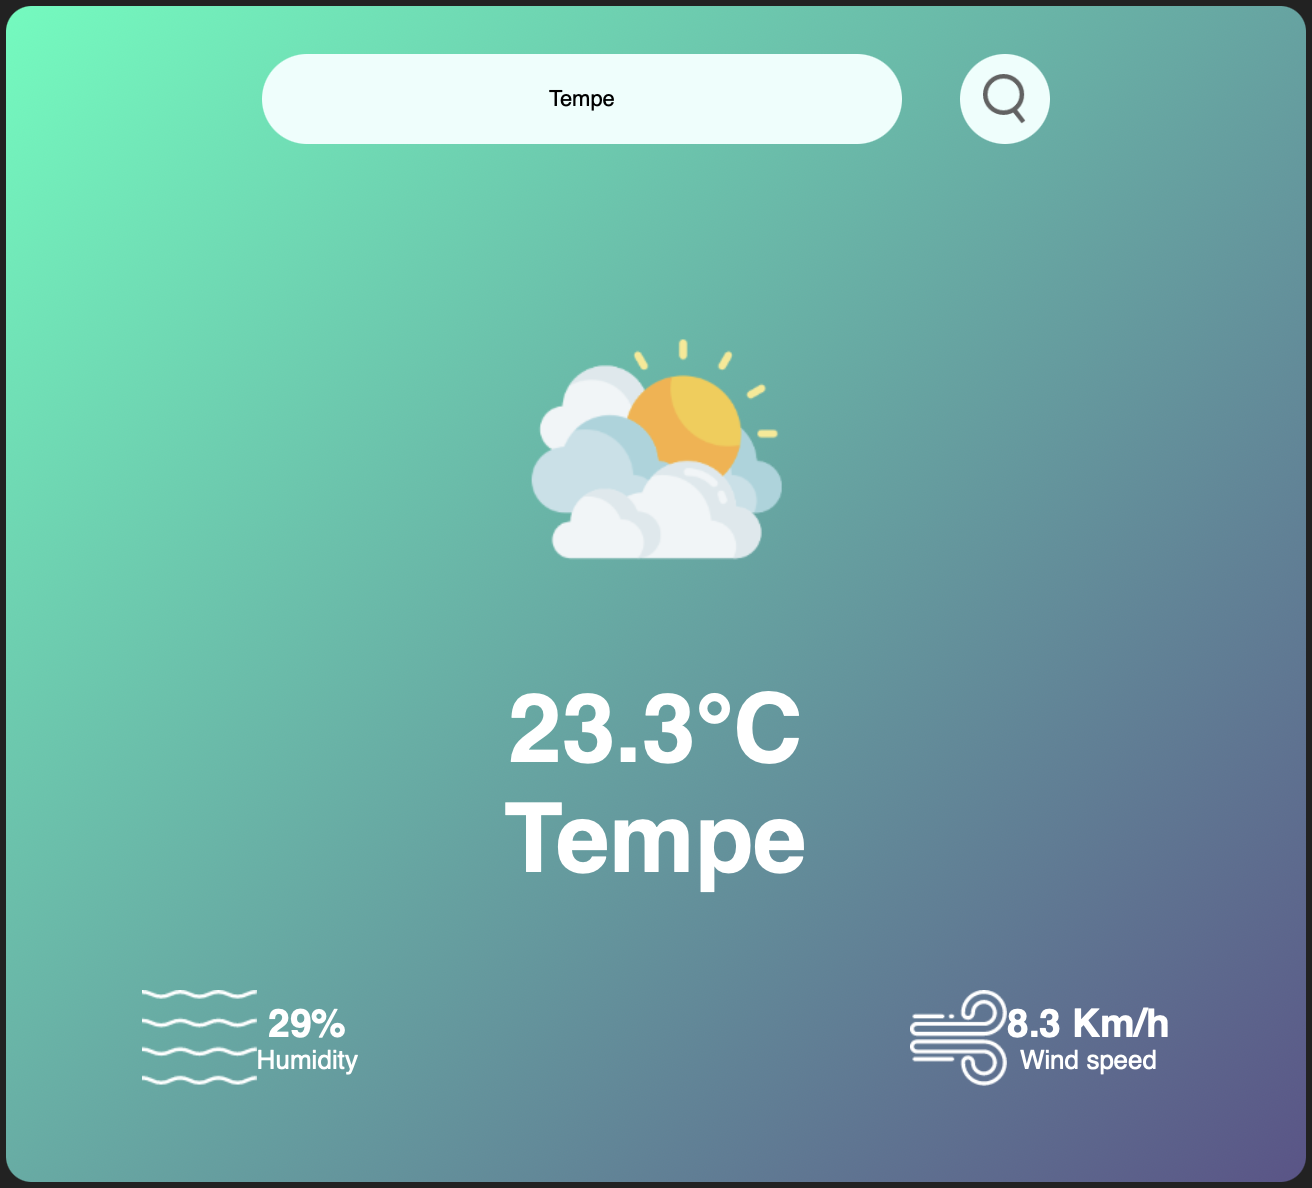
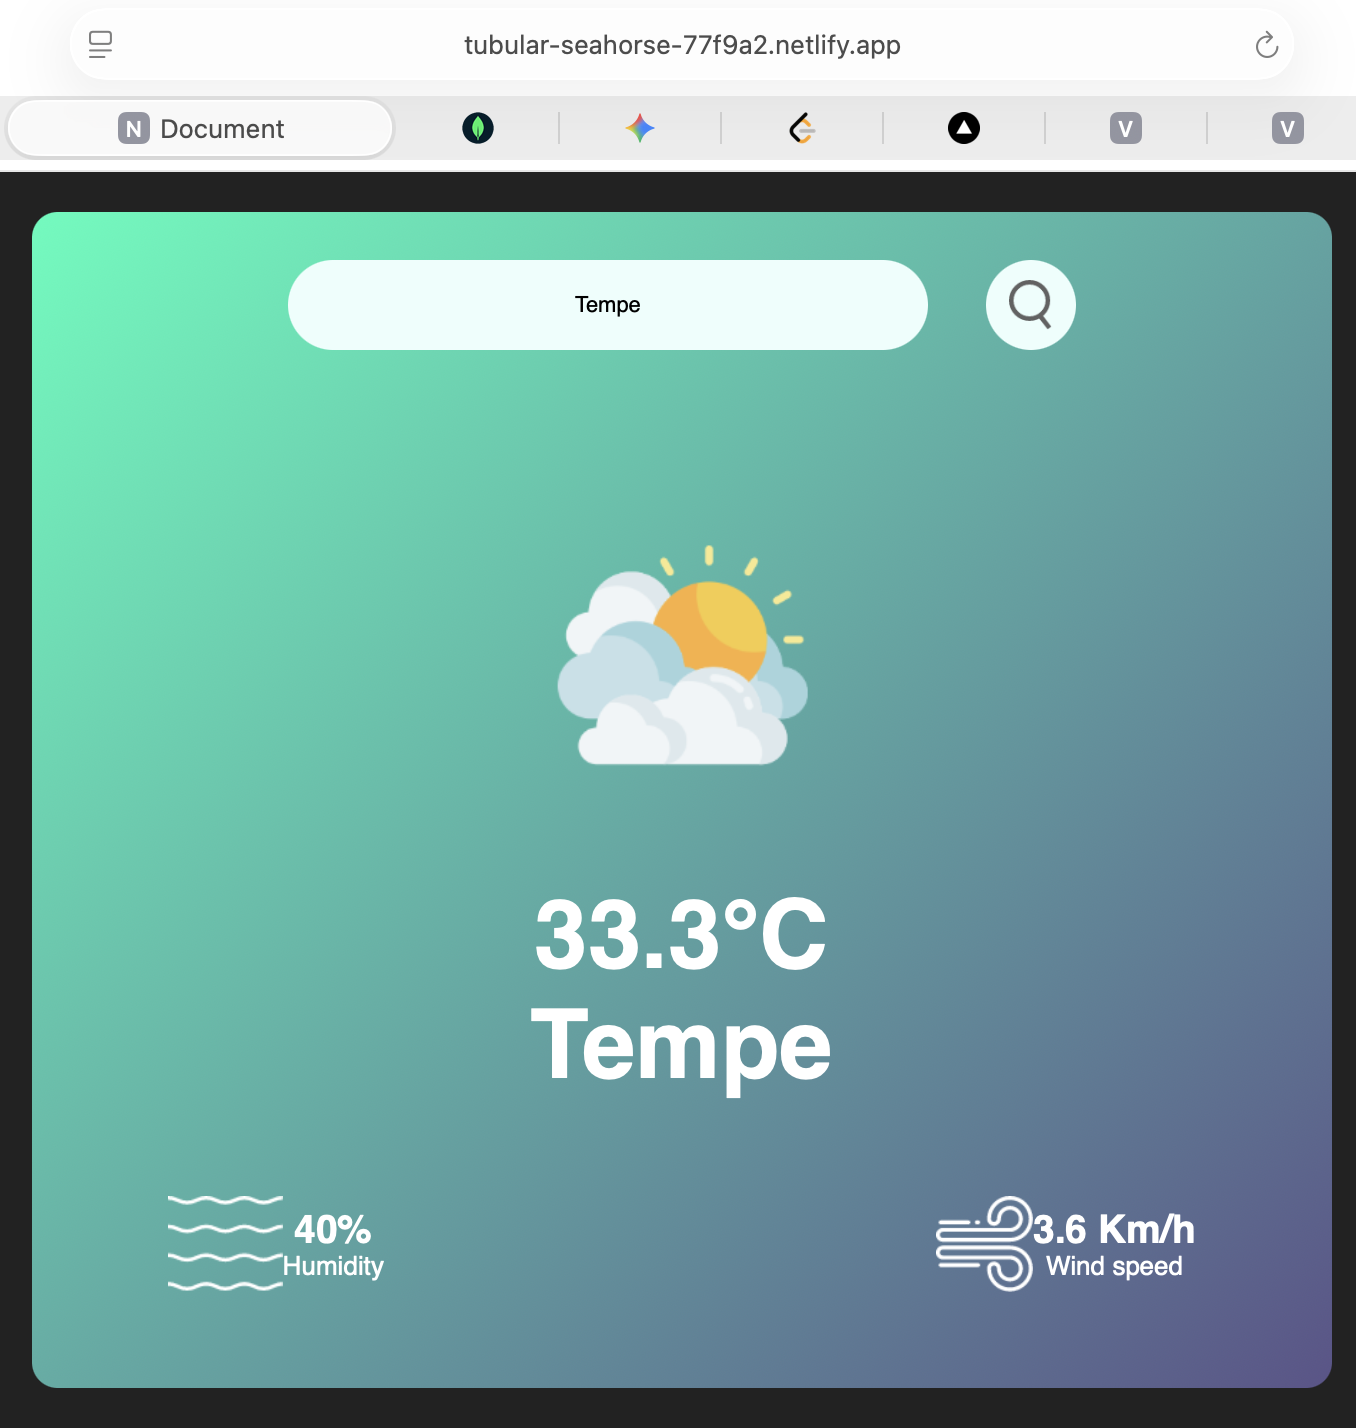
Updated new project links

diff --git a/index.html b/index.html
@@ -39,23 +39,4 @@
     ></script>
     <script type="module" src="/src/main.jsx"></script>
   </body>
-  <script>
-    useEffect(() => {
-      const forms = document.querySelectorAll(".needs-validation");
-
-      Array.from(forms).forEach((form) => {
-        form.addEventListener(
-          "submit",
-          (event) => {
-            if (!form.checkValidity()) {
-              event.preventDefault();
-              event.stopPropagation();
-            }
-            form.classList.add("was-validated");
-          },
-          false,
-        );
-      });
-    }, []);
-  </script>
 </html>

diff --git a/src/Components/Handles.jsx b/src/Components/Handles.jsx
@@ -7,13 +7,6 @@ const Profiles = [
     img: Leetcode,
     Description: "LeetCode (Knight | 1100+ Problems Solved | Top 6% Globally).",
   },
-  //   {
-  //     name: "Github",
-  //     img: github,
-  //     Link: "https://github.com/santhoshbojanapally",
-  //     Description:
-  //       "MS CS @ ASU | Backend-focused engineer passionate about distributed systems, scalable APIs, and clean architecture.",
-  //   },
 ];
 
 const Handles = () => {

diff --git a/src/Data/SkillsList.js b/src/Data/SkillsList.js
@@ -8,7 +8,6 @@ import node from "../assets/Node.js.png";
 import docker from "../assets/Docker.png";
 import html from "../assets/HTML5.png";
 import css from "../assets/CSS3.png";
-import github from "../assets/github.png";
 import git from "../assets/git.png";
 import postman from "../assets/postman.png";
 
@@ -40,9 +39,8 @@ const Tools = {
   name: "Tools",
   skills: [
     { idx: 10, name: "docker", img: docker },
-    { idx: 11, name: "github", img: github },
-    { idx: 12, name: "git", img: git },
-    { idx: 13, name: "postman", img: postman },
+    { idx: 11, name: "git", img: git },
+    { idx: 12, name: "postman", img: postman },
   ],
 };
 

diff --git a/src/App.jsx b/src/App.jsx
@@ -11,6 +11,7 @@ import Handles from "./Components/Handles.jsx";
 import "./App.css";
 
 const App = () => {
+  console.log("APP is running");
   return (
     <div>
       <NavBar />
@@ -21,7 +22,6 @@ const App = () => {
       <Projects />
       <Handles />
       <Contactme />
-
       <Footer />
     </div>
   );

diff --git a/src/Components/Projects.jsx b/src/Components/Projects.jsx
@@ -9,7 +9,7 @@ const projects = [
     img: Wanderlust,
     Tech_Stack:
       "Node.js, Express, MongoDB (Mongoose), and EJS that enables users to create, browse, and manage property listings with end-to-end CRUD functionality.",
-    Link: "https://wanderlust-ej9a.onrender.com",
+    Link: "https://wanderlust-git-main-santhoshbojanapallys-projects.vercel.app/listings",
     description:
       "Engineered a full-stack booking platform using the MVC Framework. Deployed using render. Implemented user authentication and session management using cookies and flash messages to enhance data security and UX consistency. Integrated JOI-based request schema validation and centralized error middleware, improving reliability and maintainability. Developed a dynamic templating system with EJS-Mate layouts, providing a responsive and clean UI similar to Airbnb’s property browsing experience. Applied Bootstrap styling and responsive design principles, achieving mobile-first compatibility across all devices",
   },

diff --git a/src/main.jsx b/src/main.jsx
@@ -6,5 +6,5 @@ import App from "./App.jsx";
 createRoot(document.getElementById("root")).render(
   <StrictMode>
     <App />
-  </StrictMode>
+  </StrictMode>,
 );